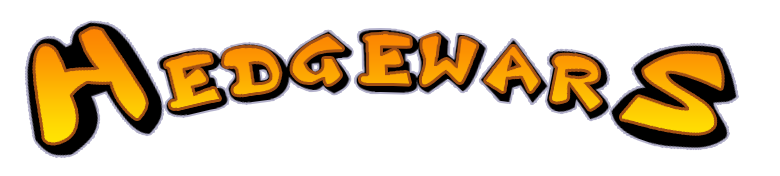
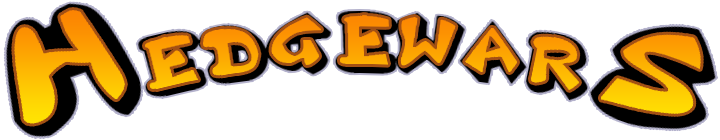
- Make look better  - Refactor code a bit
--HG--
extra : convert_revision : svn%3A99beacd1-defe-0310-bff8-d3e2e4bee508/trunk%401184

diff --git a/QTfrontend/pages.cpp b/QTfrontend/pages.cpp
@@ -55,34 +55,30 @@ PageMain::PageMain(QWidget* parent) :
   AbstractPage(parent)
 {
 	QGridLayout * pageLayout = new QGridLayout(this);
-	pageLayout->setMargin(25);
+	//pageLayout->setMargin(25);
 	//pageLayout->setColumnStretch(0, 1);
 	//pageLayout->setColumnStretch(1, 2);
 	//pageLayout->setColumnStretch(2, 1);
 
-	QPushButton* btnLogo = addButton(":/res/HedgewarsTitle.png", pageLayout, 0, 0, 1, 4, QSize(780, 176));
-	pageLayout->setAlignment(btnLogo, Qt::AlignCenter);
+	QPushButton* btnLogo = addButton(":/res/HedgewarsTitle.png", pageLayout, 0, 0, 1, 4, QSize(720, 140));
+	pageLayout->setAlignment(btnLogo, Qt::AlignHCenter);
 	pageLayout->setRowStretch(0, 1);
-	pageLayout->setRowStretch(1, 100);
-	pageLayout->setRowStretch(2, 1);
+	pageLayout->setRowStretch(1, 1);
+	pageLayout->setRowStretch(2, 0);
+	pageLayout->setRowStretch(3, 1);
 
-	BtnSinglePlayer = addButton(":/res/LocalPlay.png", pageLayout, 1, 0, 1, 2, QSize(314, 289));
-	pageLayout->setAlignment(BtnSinglePlayer, Qt::AlignCenter);
+	BtnSinglePlayer = addButton(":/res/LocalPlay.png", pageLayout, 2, 0, 1, 2, QSize(314, 260));
+	pageLayout->setAlignment(BtnSinglePlayer, Qt::AlignHCenter);
 
-	BtnMultiplayer = new QPushButton(tr("Multiplayer"));// addButton(tr("Multiplayer"), pageLayout, 1, 1);
+	BtnNet = addButton(":/res/Network play.png", pageLayout, 2, 2, 1, 2, QSize(314, 260));
+	pageLayout->setAlignment(BtnNet, Qt::AlignHCenter);
 
-	BtnNet = addButton(":/res/Network play.png", pageLayout, 1, 2, 1, 2, QSize(314, 289));
+	BtnSetup = addButton(":/res/Settings.png", pageLayout, 3, 3, QSize(54, 50));
 
-	BtnLoad = new QPushButton(tr("Saved games"));//addButton(tr("Saved games"), pageLayout, 3, 1);
+	BtnInfo = addButton(":/res/About.png", pageLayout, 3, 1, 1, 2, QSize(116, 37));
+	pageLayout->setAlignment(BtnInfo, Qt::AlignHCenter);
 
-	BtnDemos = new QPushButton(tr("Demos")); // addButton(tr("Demos"), pageLayout, 4, 1);
-
-	BtnSetup = addButton(":/res/Settings.png", pageLayout, 2, 3, QSize(54, 50));
-
-	BtnInfo = addButton(":/res/About.png", pageLayout, 2, 1, 1, 2, QSize(116, 37));
-	pageLayout->setAlignment(BtnInfo, Qt::AlignCenter);
-
-	BtnExit = addButton(":/res/Exit.png", pageLayout, 2, 0, 1, 1, QSize(58, 52));
+	BtnExit = addButton(":/res/Exit.png", pageLayout, 3, 0, 1, 1, QSize(58, 52));
 }
 
 PageEditTeam::PageEditTeam(QWidget* parent) :
@@ -591,7 +587,7 @@ PageGameStats::PageGameStats(QWidget* parent) : QWidget(parent)
 	pageLayout->addWidget(labelGameStats, 0, 0, 1, 3);
 }
 
-PageSinglePlayer::PageSinglePlayer(QWidget* parent) : QWidget(parent)
+PageSinglePlayer::PageSinglePlayer(QWidget* parent) : AbstractPage(parent)
 {
 	QFont * font14 = new QFont("MS Shell Dlg", 14);
 	QGridLayout * pageLayout = new QGridLayout(this);
@@ -600,23 +596,15 @@ PageSinglePlayer::PageSinglePlayer(QWidget* parent) : QWidget(parent)
 	pageLayout->setColumnStretch(1, 2);
 	pageLayout->setColumnStretch(2, 1);
 	pageLayout->setRowStretch(0, 1);
-	pageLayout->setRowStretch(3, 1);
+	pageLayout->setRowStretch(6, 1);
 
-	BtnSimpleGamePage = new QPushButton(this);
-	BtnSimpleGamePage->setFont(*font14);
-	BtnSimpleGamePage->setText(QPushButton::tr("Simple Game"));
-	pageLayout->addWidget(BtnSimpleGamePage, 1, 1);
+	BtnSimpleGamePage = addButton(tr("Simple Game"), pageLayout, 1, 1);
+	BtnTrainPage = addButton(tr("Training"), pageLayout, 2, 1);
+	BtnMultiplayer = addButton(tr("Multiplayer"), pageLayout, 3, 1);
+	BtnLoad = addButton(tr("Saved games"), pageLayout, 4, 1);
+	BtnDemos = addButton(tr("Demos"), pageLayout, 5, 1);
 
-	BtnTrainPage = new QPushButton(this);
-	BtnTrainPage->setFont(*font14);
-	BtnTrainPage->setText(QPushButton::tr("Training"));
-	pageLayout->addWidget(BtnTrainPage, 2, 1);
-
-	BtnBack = new QPushButton(this);
-	BtnBack->setFont(*font14);
-	BtnBack->setText(QPushButton::tr("Back"));
-	pageLayout->addWidget(BtnBack, 4, 0);
-
+	BtnBack = addButton(tr("Back"), pageLayout, 7, 0);
 }
 
 PageTraining::PageTraining(QWidget* parent) : QWidget(parent)

diff --git a/QTfrontend/hwform.cpp b/QTfrontend/hwform.cpp
@@ -56,9 +56,6 @@ HWForm::HWForm(QWidget *parent)
 
 	connect(ui.pageMain->BtnSinglePlayer,	SIGNAL(clicked()),	this, SLOT(GoToSinglePlayer()));
 	connect(ui.pageMain->BtnSetup,	SIGNAL(clicked()),	this, SLOT(GoToSetup()));
-	connect(ui.pageMain->BtnMultiplayer,	SIGNAL(clicked()),	this, SLOT(GoToMultiplayer()));
-	connect(ui.pageMain->BtnLoad,	SIGNAL(clicked()),	this, SLOT(GoToSaves()));
-	connect(ui.pageMain->BtnDemos,	SIGNAL(clicked()),	this, SLOT(GoToDemos()));
 	connect(ui.pageMain->BtnNet,	SIGNAL(clicked()),	this, SLOT(GoToNet()));
 	connect(ui.pageMain->BtnInfo,	SIGNAL(clicked()),	this, SLOT(GoToInfo()));
 	connect(ui.pageMain->BtnExit, SIGNAL(pressed()), this, SLOT(btnExitPressed()));
@@ -108,6 +105,9 @@ HWForm::HWForm(QWidget *parent)
 
 	connect(ui.pageSinglePlayer->BtnSimpleGamePage,	SIGNAL(clicked()),	this, SLOT(SimpleGame()));
 	connect(ui.pageSinglePlayer->BtnTrainPage,	SIGNAL(clicked()),	this, SLOT(GoToTraining()));
+	connect(ui.pageSinglePlayer->BtnMultiplayer,	SIGNAL(clicked()),	this, SLOT(GoToMultiplayer()));
+	connect(ui.pageSinglePlayer->BtnLoad,	SIGNAL(clicked()),	this, SLOT(GoToSaves()));
+	connect(ui.pageSinglePlayer->BtnDemos,	SIGNAL(clicked()),	this, SLOT(GoToDemos()));
 	connect(ui.pageSinglePlayer->BtnBack,	SIGNAL(clicked()),	this, SLOT(GoBack()));
 
 	connect(ui.pageTraining->BtnStartTrain,	SIGNAL(clicked()),	this, SLOT(StartTraining()));

diff --git a/QTfrontend/main.cpp b/QTfrontend/main.cpp
@@ -53,30 +53,21 @@ int main(int argc, char *argv[])
 
 	Q_INIT_RESOURCE(hedgewars);
 
-	QString imgAddr=":/res/Background.png";
-	QImage bgrndIm(imgAddr);
-	QRect deskSz=qApp->desktop()->screenGeometry();
-	bgrndIm=bgrndIm.scaled(deskSz.width()-deskSz.left(), deskSz.height()-deskSz.top(), 
-			       Qt::IgnoreAspectRatio, Qt::SmoothTransformation);
-	if (bgrndIm.save(QDir::tempPath()+"/hedgewarsScaledBgrnd.png")) {
-	  imgAddr=QDir::tempPath()+"/hedgewarsScaledBgrnd.png";
-	}
-	
 	qApp->setStyleSheet
 	  (QString(
 		   ".HWForm{"
-		   "background-image: url(\"%1\");"
+		   "background-image: url(\":/res/Background.png\");"
 		   "background-position: bottom center;"
 		   //" background-origin: content;"
-		   "background-repeat: no-repeat;"
-		   "background-color: #3f095f;"
+		   "background-repeat: repeat-x;"
+		   "background-color: #870c8f;"
 		   "}"
 		   "PageMain > QPushButton{"
 		   "border: solid transparent;"
 		   "}"
-		   ).arg(imgAddr)
+		   )
 	   );
-	
+
 	bindir->cd("bin"); // workaround over NSIS installer
 
 	cfgdir->setPath(cfgdir->homePath());

diff --git a/QTfrontend/pages.h b/QTfrontend/pages.h
@@ -112,11 +112,8 @@ public:
 	PageMain(QWidget* parent = 0);
 
 	QPushButton *BtnSinglePlayer;
-	QPushButton *BtnMultiplayer;
 	QPushButton *BtnNet;
 	QPushButton *BtnSetup;
-	QPushButton *BtnLoad;
-	QPushButton *BtnDemos;
 	QPushButton *BtnInfo;
 	QPushButton *BtnExit;
 };
@@ -289,7 +286,7 @@ public:
 	QLabel *labelGameStats;
 };
 
-class PageSinglePlayer : public QWidget
+class PageSinglePlayer : public AbstractPage
 {
 	Q_OBJECT
 
@@ -298,6 +295,9 @@ public:
 
 	QPushButton *BtnSimpleGamePage;
 	QPushButton *BtnTrainPage;
+	QPushButton *BtnMultiplayer;
+	QPushButton *BtnLoad;
+	QPushButton *BtnDemos;
 	QPushButton *BtnBack;
 	GameCFGWidget *gameCFG;
 };
